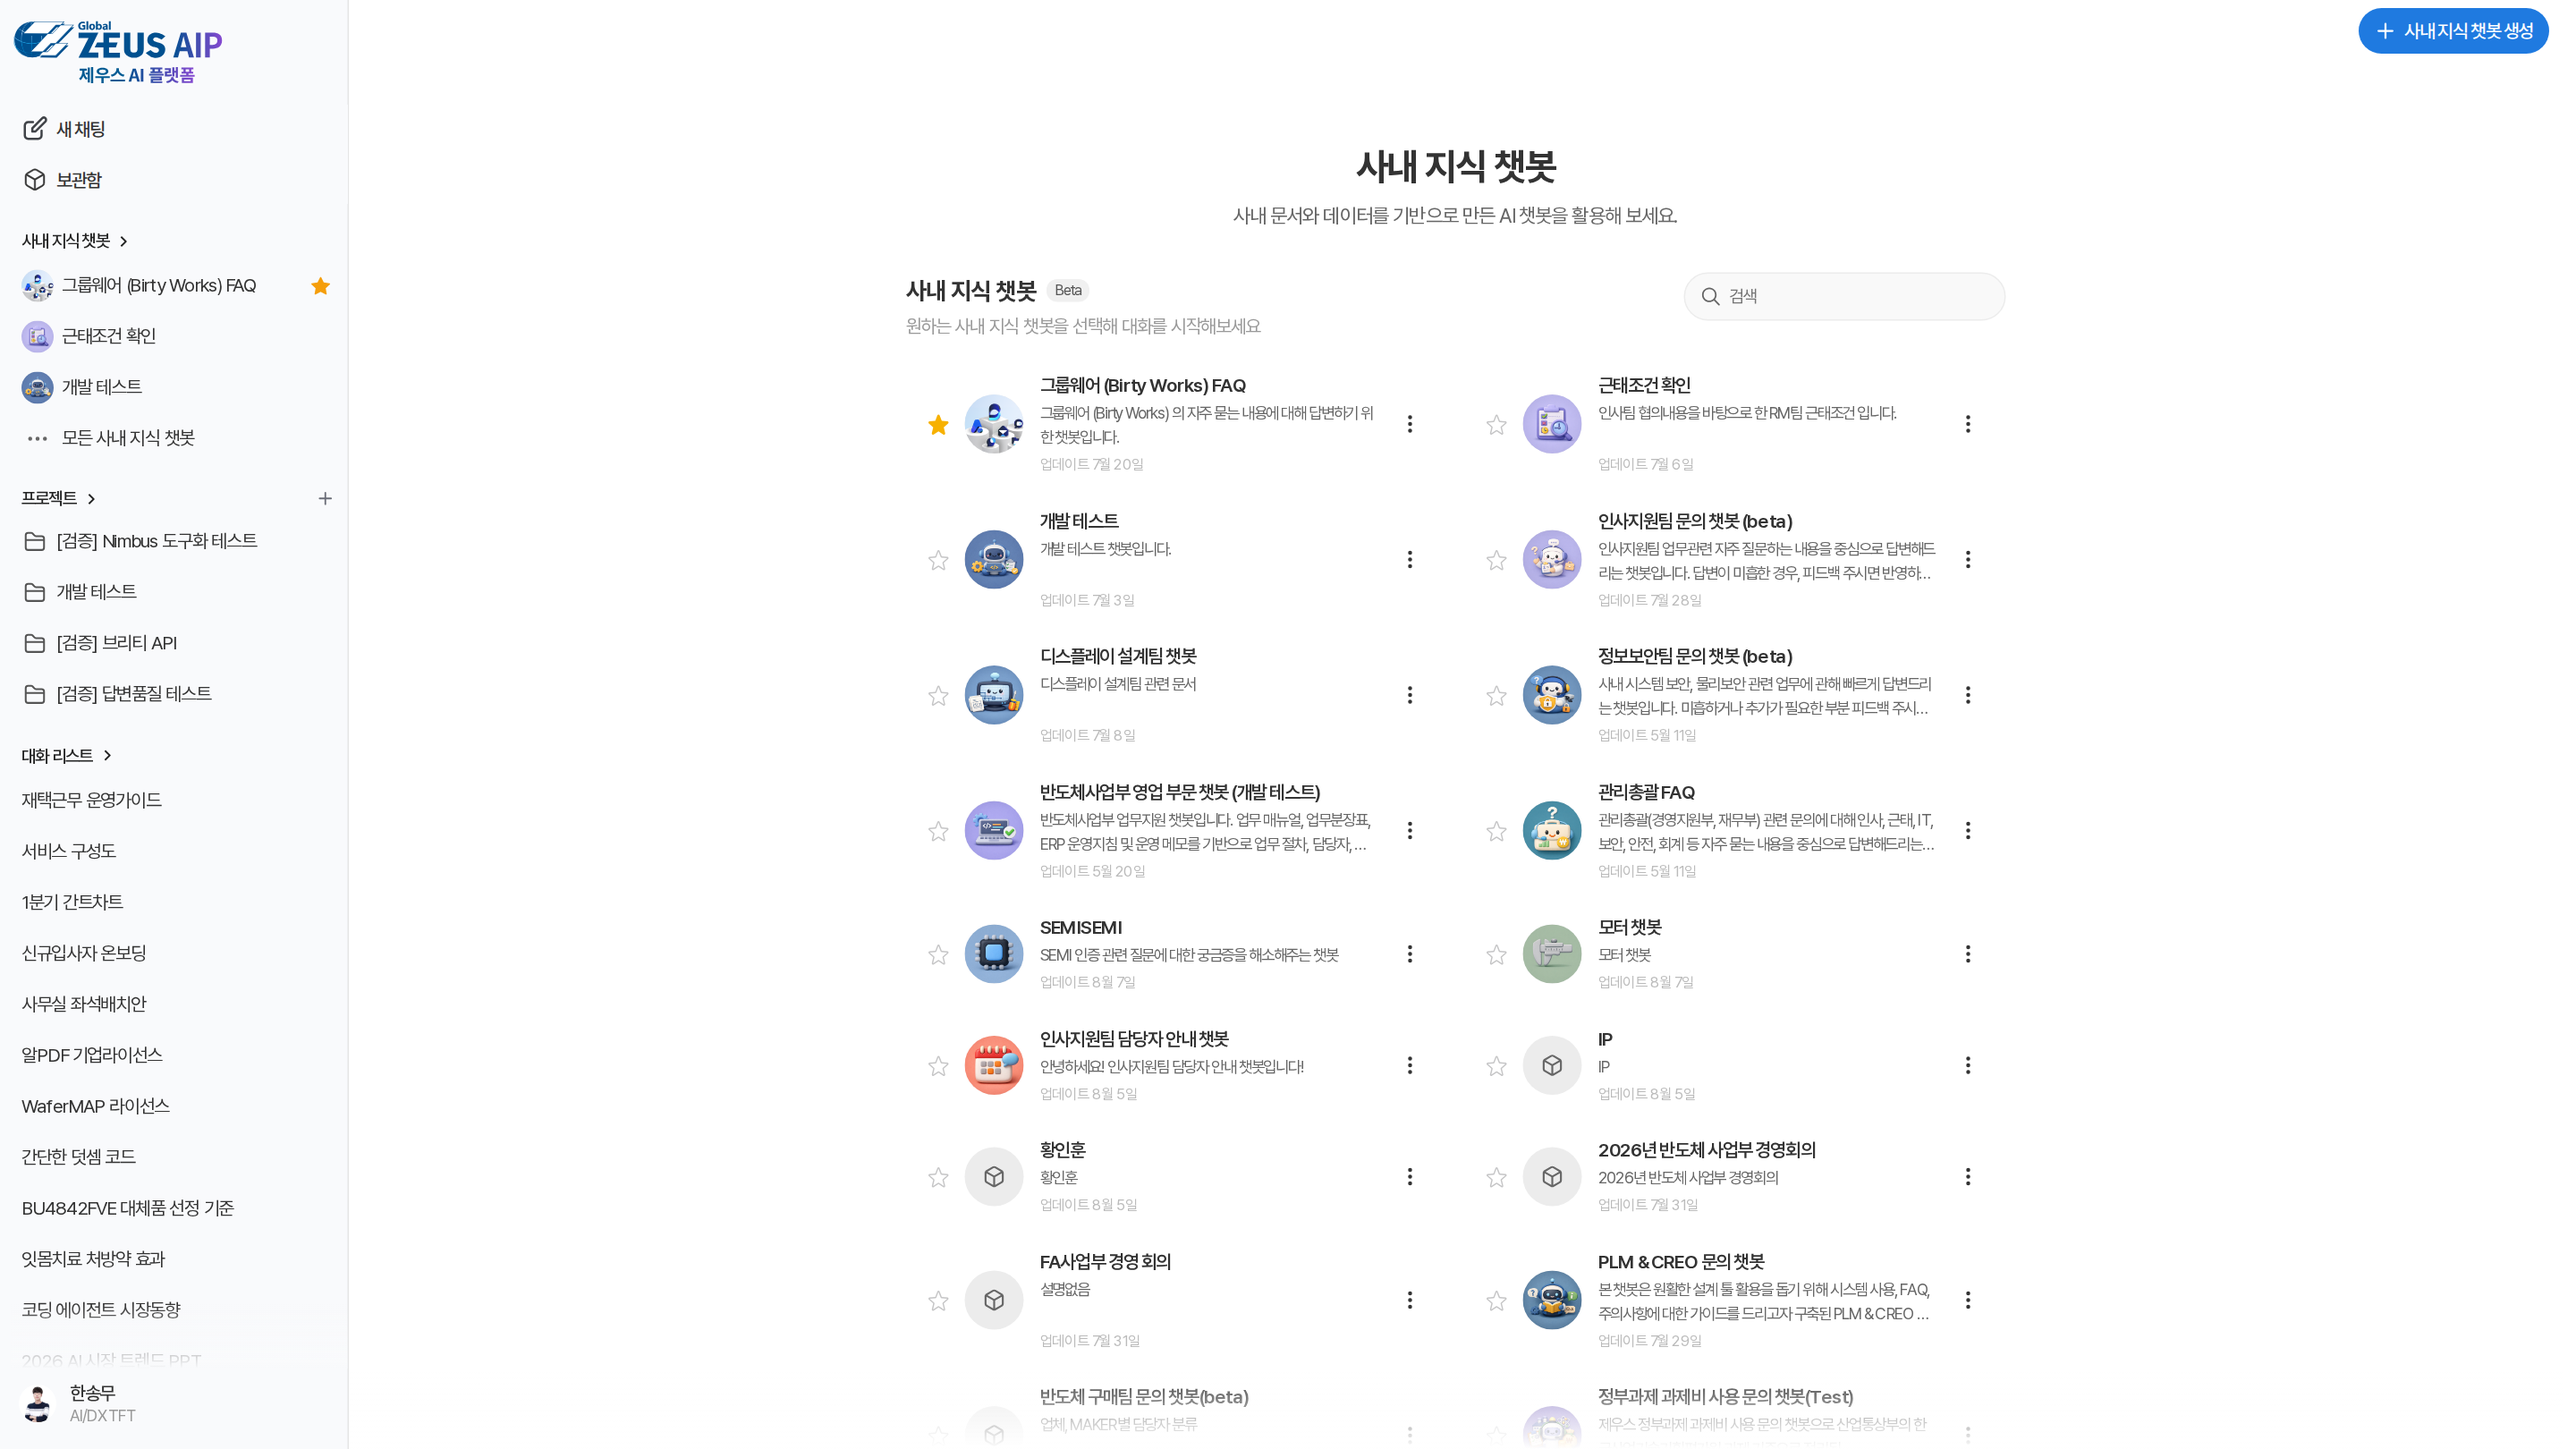
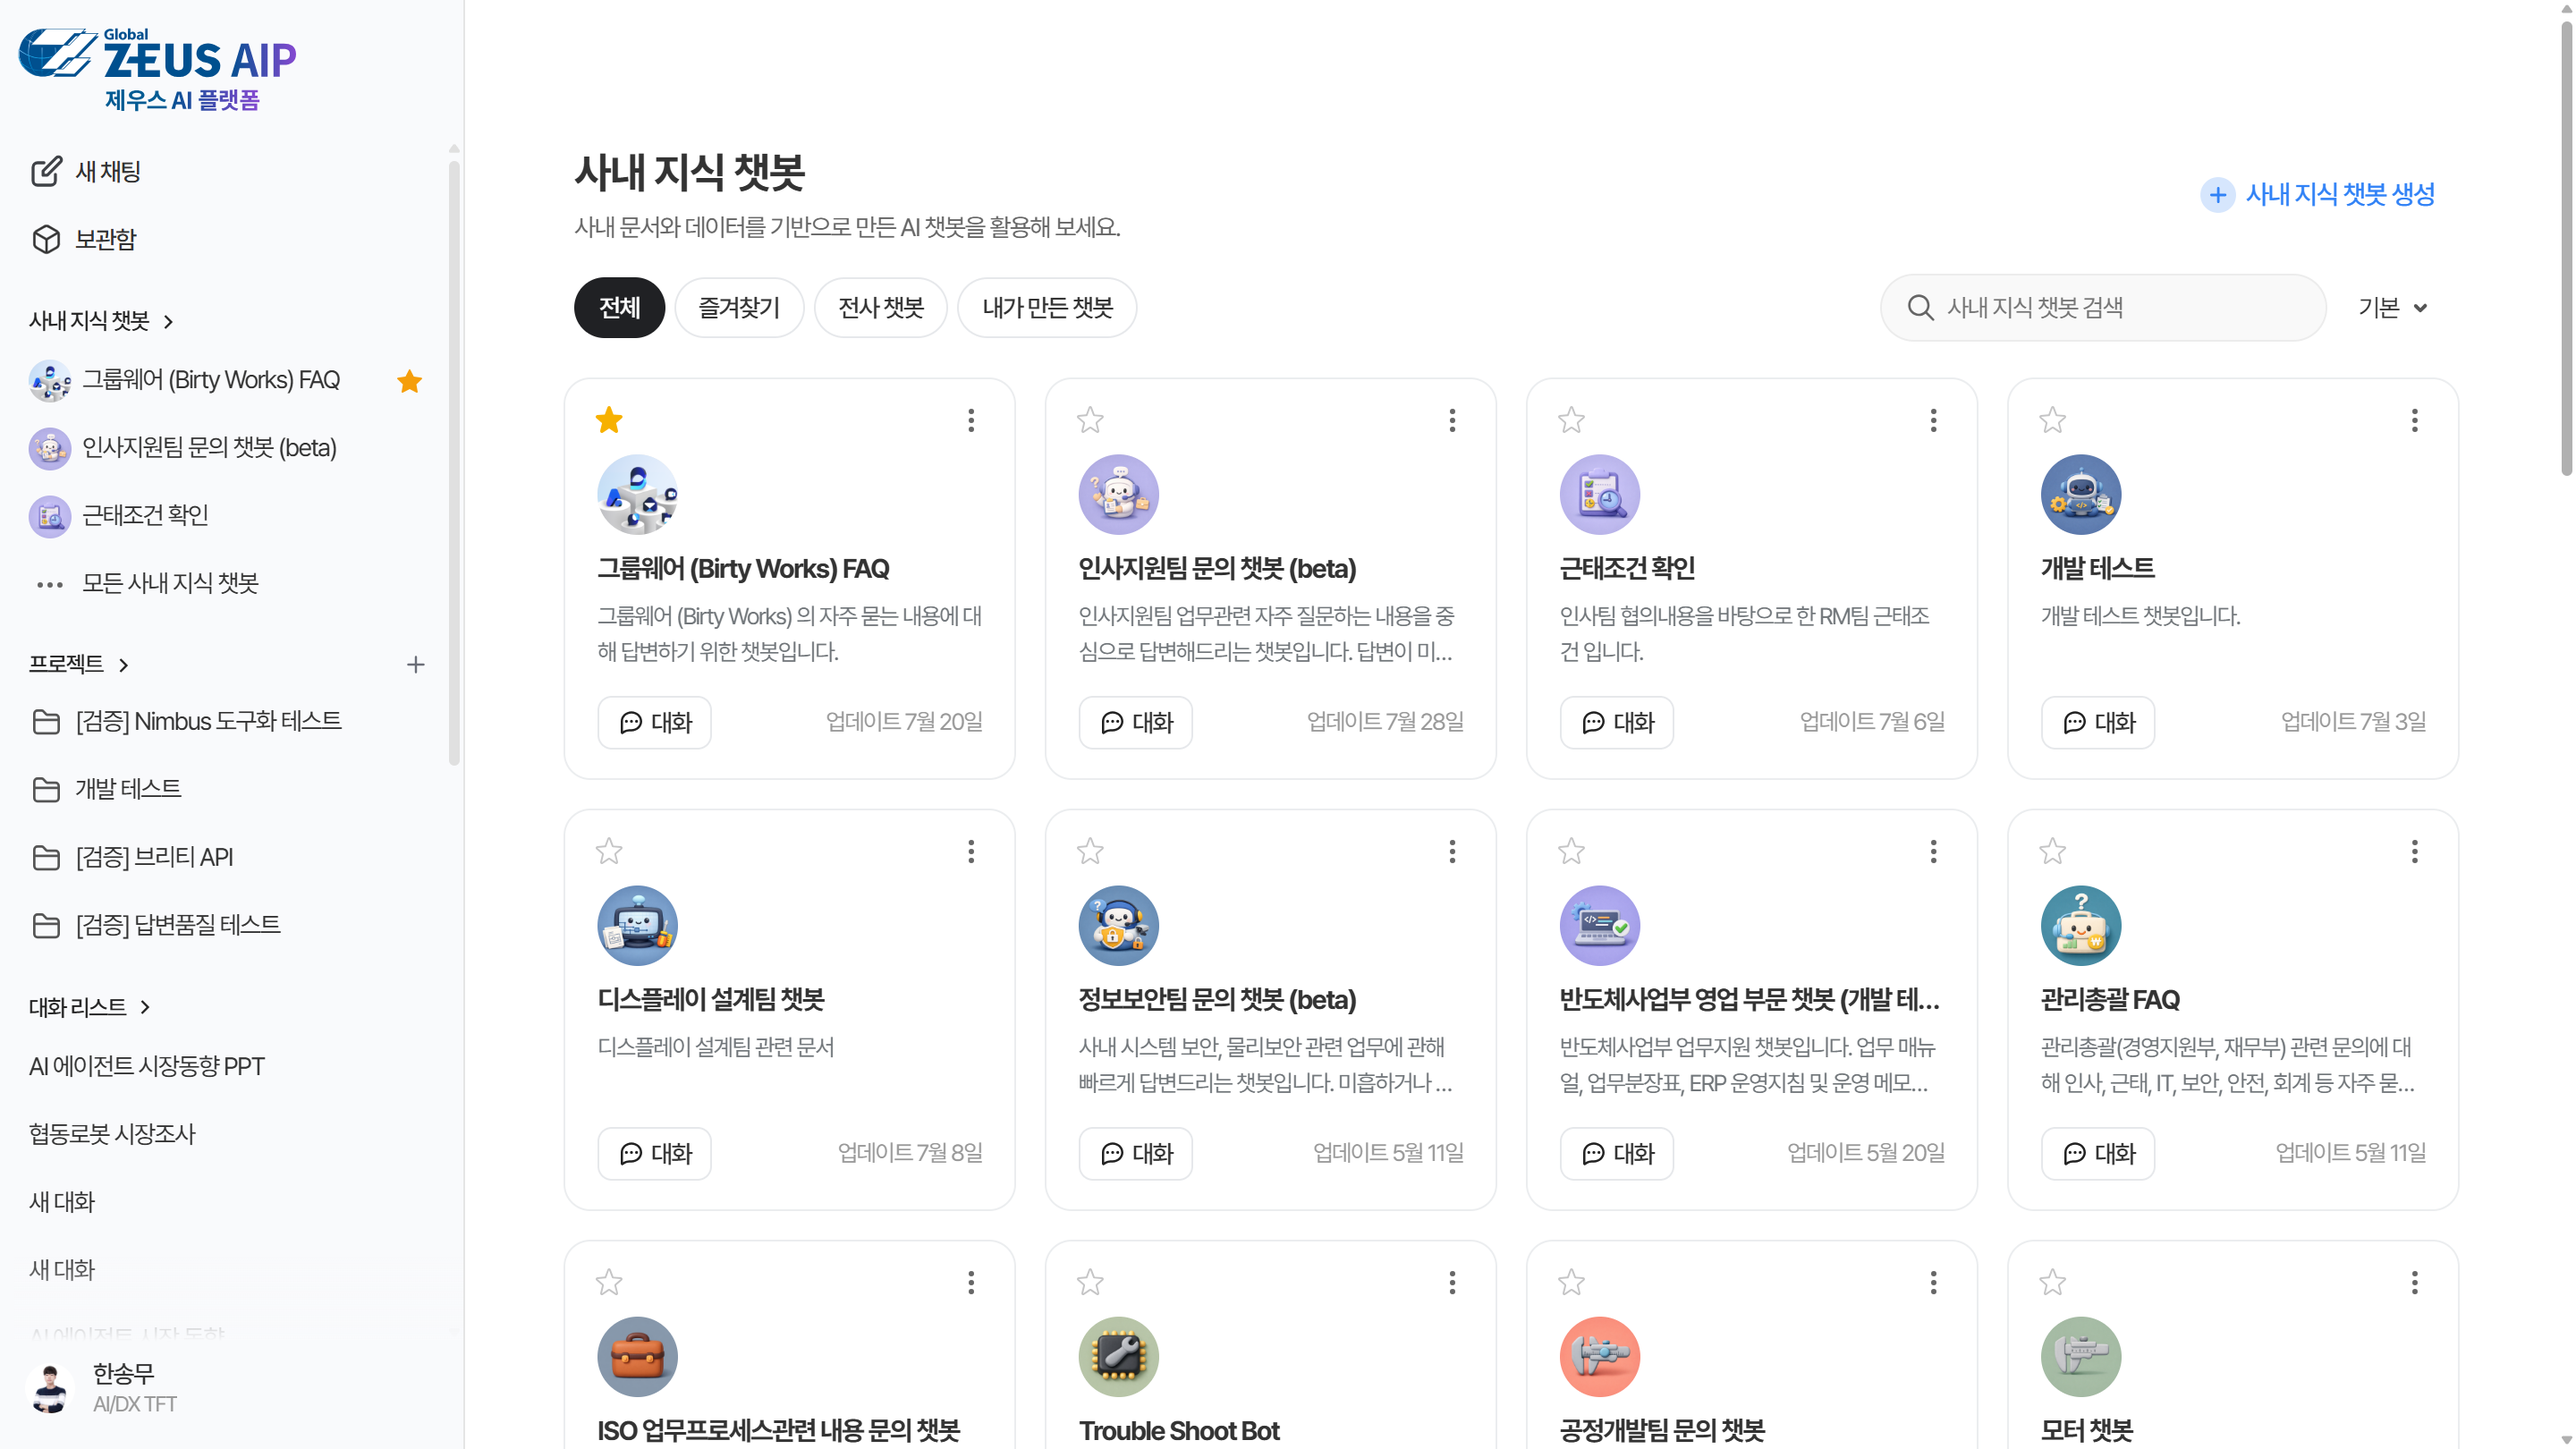
content(ai-platform): 사내 지식 관리 화면 5종 재캡처
목록이 2열 리스트에서 카드 그리드로 바뀌고 필터 탭과 정렬이 붙었는데
캡처는 옛 화면이었다. 설정 화면도 '카테고리 설정'이라는 옛 제목과
탭 3개 상태로 남아 '의견' 탭이 빠져 있었다.

소스·권한 탭은 본문 영역만 잘라 쓰던 방식을 그대로 두되 2배 해상도로
다시 떠서 imageDims 를 갱신했다. 권한 탭은 이 챗봇이 전체 공개라
멤버 목록이 없어 아래 여백만큼 잘라냈다.

diff --git a/src/content/imageDims.ts b/src/content/imageDims.ts
@@ -21,11 +21,11 @@ export const imageDims: Record<string, { w: number; h: number }> = {
   '/projects/ai-platform/132.png': { w: 2880, h: 1800 },
   '/projects/ai-platform/133.png': { w: 2880, h: 1800 },
   '/projects/ai-platform/159.png': { w: 2560, h: 728 },
-  '/projects/ai-platform/16.png': { w: 1091, h: 866 },
+  '/projects/ai-platform/16.png': { w: 2200, h: 1732 },
   '/projects/ai-platform/163.png': { w: 1980, h: 1240 },
   '/projects/ai-platform/167.png': { w: 2880, h: 1800 },
   '/projects/ai-platform/169.png': { w: 2560, h: 729 },
-  '/projects/ai-platform/17.png': { w: 1100, h: 744 },
+  '/projects/ai-platform/17.png': { w: 2200, h: 920 },
   '/projects/ai-platform/170.png': { w: 2560, h: 764 },
   '/projects/ai-platform/171.png': { w: 1860, h: 1056 },
   '/projects/ai-platform/172.png': { w: 2520, h: 1417 },
